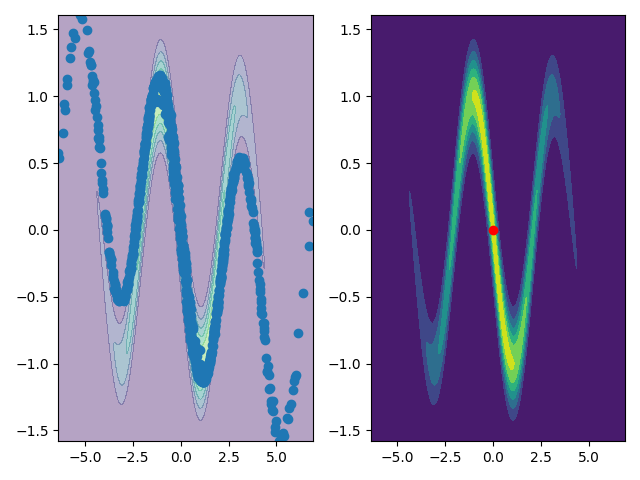
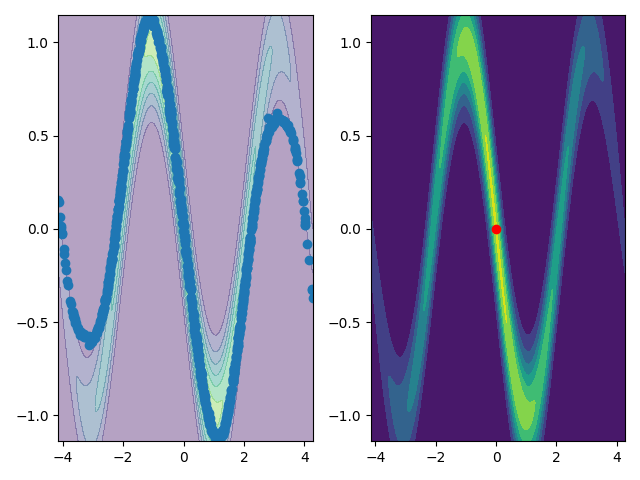
update

diff --git a/rala/laplace.py b/rala/laplace.py
@@ -10,6 +10,7 @@ import jax.scipy as jsp
 import jax.tree_util as tree_util
 from diffrax import Dopri5, ODETerm, PIDController, diffeqsolve
 from jax.flatten_util import ravel_pytree
+from jaxhmc.mcmc import RandomWalkConfig, random_walk
 
 
 class LaplaceMethod(Enum):
@@ -17,6 +18,7 @@ class LaplaceMethod(Enum):
     RIEMANN = "riemann"
     MONGE = "monge"
     FISHER = "fisher"
+    RANDOM_WALK = "random-walk"
 
 
 @jax.jit
@@ -192,6 +194,10 @@ def laplace_approximation(
         case LaplaceMethod.FISHER:
             assert metric_fn is not None, "`metric_fn` should be provided when `FISHER` is used"
             samples = fexpmap(samples, theta_map, metric_fn, dim)
+        case LaplaceMethod.RANDOM_WALK:
+            config = RandomWalkConfig(key=key, iterations=50, tuning_steps=10)
+            samples = random_walk(log_p_flat, samples, config)
+            samples = samples[-1]
 
     # Apply jax.vmap to unravel so we can unravel multiple samples at the same time
     unravel = jax.vmap(unravel)
